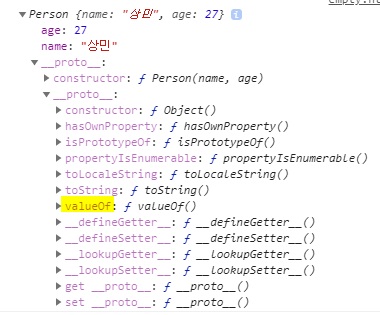
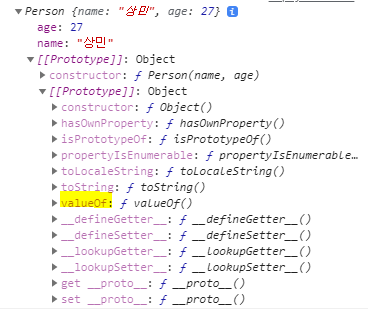
포스트 업데이트 1. prototype 내용 수정 2. 이미지 추가

Changed region(s): [[0.0299, 0.029, 0.9864, 0.9871], [0.3288, 0.0, 0.6576, 0.0871], [0.7473, 0.0, 1.0, 0.029]]

diff --git a/content/blog/Study/CS/prototype.md b/content/blog/Study/CS/prototype.md
@@ -77,13 +77,13 @@ console.log(obj)
   <img src="/img/2021/07/25/2.PNG" alt="2">
 </div>
 
-`__proto__`라는 속성이다. 그리고, 이 속성이 해당 객체를 상속하고 있는 혹은 참조할 수 있는 다른 **프로토타입 객체**를 연결해주는 **프로토타입 체인** 이다.
+`[[Prototype]]`라는 숨겨진 속성이다. 이 객체를 통해 참조할수 있는 다른 객체를 설명한다. 이러한 방식으로 참조할 수 있는 객체들이 `[[Prototype]]`이라는 숨겨진 속성으로 연결되어있는 것을 **프로토타입 체인** 이라고 한다.
 
-위에서, `valueOf`라는 속성을 찾아갈 때 생성자 함수로 생성된 함수 또한 객체이므로 `__proto__` 속성을 갖고 있었고, 그 **프로토타입 체인**을 통해 상속하고있는 **프로토타입 객체**를 타고 가다, `Object`에서 해당 메소드를 발견한 것이다.
+위에서, `valueOf`라는 속성을 찾아갈 때 생성자 함수로 생성된 함수 또한 객체이므로 `[[Prototype]]` 숨김 속성을 갖고 있었고, 그 **프로토타입 체인**을 통해 상속하고있는 **프로토타입 객체**를 타고 가다, `Object`에서 해당 메소드를 발견한 것이다.
 
 만약, 가장 끝의 프로토타입 객체에도 존재하지 않았다면 `undefined`를 반환하게 된다.
 
-## 프로토타입 객체 - prototype object
+## 함수의 prototype
 
 ```js
 function Person(name, age) {
@@ -100,17 +100,25 @@ console.dir(me)
   <img src="/img/2021/07/25/3.PNG" alt="3">
 </div>
 
-생성자 함수를 사용하여 함수(객체)를 생성했다면, `prototype`속성을 사용하여 **프로토타입 객체**에 접근할 수 있다.
+생성자 함수를 사용하여 객체를 생성했다면, `prototype`속성을 사용하여 **프로토타입 객체**에 접근할 수 있다.
 
-하지만, 모든 객체가 아닌 위와 같은 함수 객체에서만 접근이 가능하다.
+하지만, `.prototype` 을 통한 방법으로는 모든 객체가 아닌 위와 같은 생성자 함수 에서만 접근이 가능하다.
 
-만약 `const obj = {}`와 같은 일반 객체에서 `prototype`속성을 사용하려 한다면, 해당 속성이 존재하지 않는다는 에러를 반환한다.
+생성자함수에서의 `.prototype`은 이전의 모든 객체가 갖고있는 `[[Prototype]]`라는 숨겨진 속성을 통해 접근할 수 있는 참조 객체인 `prototype`과 이름이 유사해보이지만 사실은 다르다.
 
-`.prototype`으로 접근한 **프로토타입 객체** 또한 일반 **객체** 이므로 `__proto__`의 프로토타입 체인을 갖고있다.
+> 생성자함수의 `.prototype`으로 접근하는 객체는 이름만 `prototype`인 일반 속성이다.
 
-생성자 함수의 `.prototye` 메소드를 통해 속성을 할당해줄 수 있다.
+`생성자함수.prototype`는, 해당 생성자 함수를 통해 만들어지는 객체의 `[[Prototype]]`으로 연결되는 `prototype`객체를 값으로 사용하라는 뜻이다.
 
-## 함수(객체)를 선언했을 때의 반응
+<div style="margin : 0 auto; text-align : center">
+  <img src="/img/2021/07/25/5.PNG" alt="5">
+</div>
+
+만약 `const obj = {}`와 같은 일반 객체에서 `prototype`속성에 접근하기 위해서는 `__proto__`를 사용해야 한다.
+
+> `setter`와 `getter` 역할을 수행
+
+이를 통해 알 수 있는점은, `__proto__`는 객체의 속성이 아닌, `prototype`에 접근하기 위한 속성일 뿐이다.
 
 <div style="margin : 0 auto; text-align : center">
   <img src="/img/2021/07/25/4.png" alt="4">
@@ -119,18 +127,20 @@ console.dir(me)
 생성자 함수를 정의하였을 때 두가지 반응이 일어난다.
 
 1. 기본 반응인 본인 자신이 정의됨
-   > `.prototype`을 통해 아래에 형성되는 `prototype object`에 접근 가능
-2. 해당 생성자 함수의 `prototype object`가 형성
-   > 해당 `prototype object`에는 1번에서의 생성자 함수를 `constructor`속성으로 참조하고, 이 또한 객체이기 때문에 자신의 또 다른 `__proto__`로 참조할 수 있는 객체를 체이닝 하고 있다.
+2. 생성자 함수는 함수이기 때문에, `prototype`이라는 속성을 기본적으로 가지고 있다.
+   > 이 속성에는 기본적으로 함수 자기 자신을 지칭하는 `counstructor`속성과, 자신을 통해 생성되는 객체의 `[[Prototype]]`으로 연결되는 `prototype` 객체를 지정해줄 수 있다.
+   > 이때, `constructor`의 값을 유지하기 위해 `.prototype`을 아예 새로운 객체로 변경하기 보다는 속성을 추가해주는것이 좋다.
 
-이렇게 정의된 생성자 함수로 생성된 함수(객체)는, `__proto__` 프로토타입 체인을 통해 자신을 생성한 생성자 함수의 프로토타입 객체에 접근할 수 있다.
+이렇게 정의된 생성자 함수로 생성된 객체는, 프로토타입 체인을 통해 자신을 생성한 생성자 함수의 프로토타입 객체에 접근할 수 있다.
 
 ## 결론
 
 `Javascript`의 발전으로 `class`문법이 등장하긴 했지만, 이 또한 `prototype`기반의 문법이였다.
 
-모든 객체들의 `__proto__`라는 속성은, `prototype chain`을 의미하였고, 그것은 상속되고있는 다른 객체들의 연결이라고 볼 수 있었다.
+모든 객체들의 `[[Prototype]]`라는 속성은, `prototype chain`을 의미하였고, 이 연결을 통해 참조되고있는 `prototype`객체들에 접근할 수 있었다.
 
-생성자 함수의 경우 정의될 때 추가적으로 해당 생성자 함수의 `prototpye object`가 별도로 생성되었고, 생성자 함수의 호출로 생성되는 함수(객체)의 `__proto__`속성의 첫번째 `prototype chain` 대상은 생성자 함수가 정의될 때 만들어진 `prototype object`였다.
+함수의 경우 정의될 때 추가적으로 함수의 `prototpye`속성이 자동으로 생성되었고, 이 속성의 내부에는 기본적으로 함수 자기자신을 지칭하는 `consturctor`가 존재하며, 다른 속성을 추가할 수 있었다.
 
-`prototype object`들도 마찬가지로 `__proto__`속성을 통한 `prototype chain`이 있었고, 해당 `chaining`을 타고 올라가며 찾고자 하는 속성을 탐색한다.
+생성자 함수를 통해 생성되는 객체의 `[[Prototype]]`을 통해 연결되는 `prototype` 객체는 생성자 함수가 정의될 때 만들어진 `prototype object`였다.
+
+`prototype object`들도 마찬가지로 `[[Prototype]]`속성을 통한 `prototype chain`이 있었고, 해당 `chaining`을 타고 올라가며 찾고자 하는 속성을 탐색한다.
